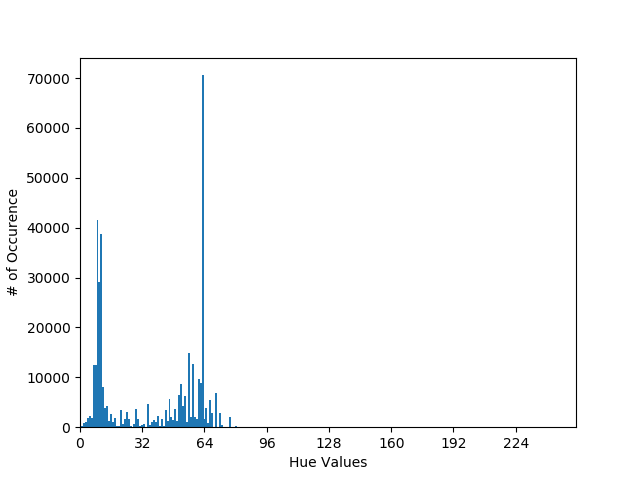
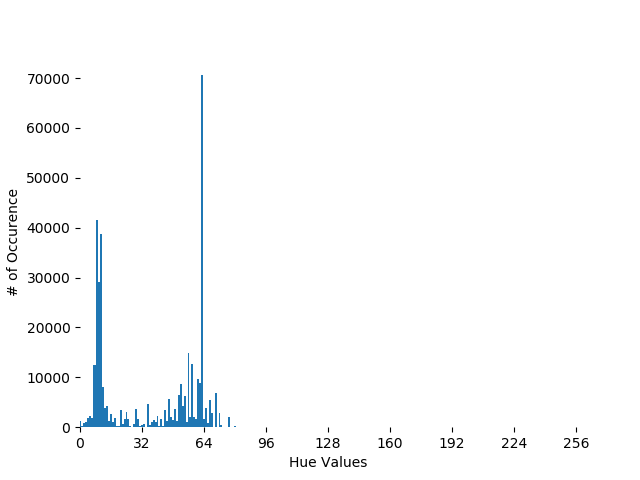
PEP8 applied

diff --git a/Task1.py b/Task1.py
@@ -3,10 +3,13 @@ import matplotlib.pyplot as plt
 import numpy as np
 import os
 
-#Path to original image
+# Path to original image
 IMAGE_FILE = os.path.join('Images', 'Original Images', 'img_001.jpg')
 
-# OpenCV uses BGR instead og RGB, that's why channels are different with matplotlib
+# OpenCV uses BGR instead og RGB, that's why channels are different with
+# matplotlib
+
+
 def display_image(img, bgr=True):
     plt.figure()
     if bgr:
@@ -14,58 +17,77 @@ def display_image(img, bgr=True):
     else:
         plt.imshow(img)
     plt.show()
-         
+
 # Gets the specified channel from given image
+
+
 def get_single_channel(img, channel_index, rgb=True):
     if rgb:
         single_channel = np.zeros_like(img)
-        single_channel[:,:,channel_index] = img[:,:,channel_index]
+        single_channel[:, :, channel_index] = img[:, :, channel_index]
         return single_channel
-    return img[:,:,channel_index]
+    return img[:, :, channel_index]
 
 # Creates histogram from the specified channel of specified cimage
+
+
 def create_histogram(img, channel, bin=256):
     hist = np.zeros(bin)
-    size = 256/bin
-    for i in img[:,:,channel]:
+    size = 256 / bin
+    for i in img[:, :, channel]:
         for j in i:
-            hist[int(j/size)] += 1
-        
+            hist[int(j / size)] += 1
+
     return hist
 
-def display_histogram(hist, bin=256, xlabel='', fname=''):
+
+def display_histogram(hist, bin=256, xlabel='', fname='', disp=False):
     plt.figure()
     plt.bar(x=range(bin), height=hist, width=1.0)
-    if xlabel != '': plt.xlabel(xlabel)
+    if xlabel != '':
+        plt.xlabel(xlabel)
     plt.xlim(0, 255)
-    plt.xticks(np.arange(0, 256, max(int(256/bin), 32)))
+    plt.xticks(np.append(np.arange(0, 256, max(int(256 / bin), 32), 255)))
     plt.ylabel('# of Occurence')
-    if fname != '': plt.savefig(fname=fname)
-    plt.show()
+    plt.box(on=None)
+    if fname != '':
+        plt.savefig(fname=fname)
+    if disp:
+        plt.show()
     pass
 
-# Hue values are between (0, 179) in OpenCV, it is mapped to (0, 255) for visualization purposes
+# Hue values are between (0, 179) in OpenCV, it is mapped to (0, 255) for
+# visualization purposes
+
+
 def map_hue(img, max_hue_val=179):
-     return (img * (max_hue_val / 255)).astype(int)
-        
-# Part 1 of the Task 1, create single R, G, B channels from RGB images 
+    return (img * (max_hue_val / 255)).astype(int)
+
+# Part 1 of the Task 1, create single R, G, B channels from RGB images
+
+
 def part1(img, display=False):
     img_r = get_single_channel(img, 2)
     img_g = get_single_channel(img, 1)
     img_b = get_single_channel(img, 0)
 
     cv2.imwrite('img_001_r.jpg', img_r)
-    if display: display_image(img_r)
+    if display:
+        display_image(img_r)
     cv2.imwrite('img_001_g.jpg', img_g)
-    if display: display_image(img_g)
+    if display:
+        display_image(img_g)
     cv2.imwrite('img_001_b.jpg', img_b)
-    if display: display_image(img_b)
+    if display:
+        display_image(img_b)
     return img
 
-# Part 2 of the Task 1, create single H, S, V channels from HSV images 
+# Part 2 of the Task 1, create single H, S, V channels from HSV images
+
+
 def part2(img, display=False):
     img_hsv = cv2.cvtColor(img, cv2.COLOR_BGR2HSV)
-    
+
     img_h = map_hue(get_single_channel(img_hsv, 0, rgb=False))
     img_s = get_single_channel(img_hsv, 1, rgb=False)
     img_v = get_single_channel(img_hsv, 2, rgb=False)
@@ -73,14 +95,19 @@ def part2(img, display=False):
     img_hsv = np.stack((img_h, img_s, img_v), axis=2)
 
     cv2.imwrite('img_001_h.jpg', img_h)
-    if display: display_image(img_h, bgr=False)
+    if display:
+        display_image(img_h, bgr=False)
     cv2.imwrite('img_001_s.jpg', img_s)
-    if display: display_image(img_s, bgr=False)
+    if display:
+        display_image(img_s, bgr=False)
     cv2.imwrite('img_001_v.jpg', img_v)
-    if display: display_image(img_v, bgr=False)
+    if display:
+        display_image(img_v, bgr=False)
     return img_hsv
 
 # Creating hist
+
+
 def part3(img, img_hsv):
     hist_r = create_histogram(img, 2)
     display_histogram(hist_r, xlabel='Red Values', fname='hist_r')
@@ -96,13 +123,9 @@ def part3(img, img_hsv):
     hist_v = create_histogram(img_hsv, 2)
     display_histogram(hist_v, xlabel='Brightness Values', fname='hist_v')
 
-    pass
-
 
 img = cv2.imread(IMAGE_FILE)
 
 img = part1(img)
 img_hsv = part2(img)
 part3(img, img_hsv)
-
-#assert np.sum(hist) == (img.shape[0]*img.shape[1])

diff --git a/Task2.py b/Task2.py
@@ -1,0 +1,26 @@
+import numpy as np
+import cv2
+import matplotlib.pyplot as plt
+import os
+import glob
+
+IMAGE_FOLDER = os.path.join('Images', 'Ground Truths')
+
+# OpenCV uses BGR instead og RGB, that's why channels are different with
+# matplotlib
+
+
+def display_image(img, bgr=True):
+    plt.figure()
+    if bgr:
+        plt.imshow(cv2.cvtColor(img, cv2.COLOR_BGR2RGB))
+    else:
+        plt.imshow(img)
+    plt.show()
+
+
+filenames = [img for img in glob.glob(os.path.join(IMAGE_FOLDER, "*.jpg"))]
+
+for f in filenames:
+	pass
+	
